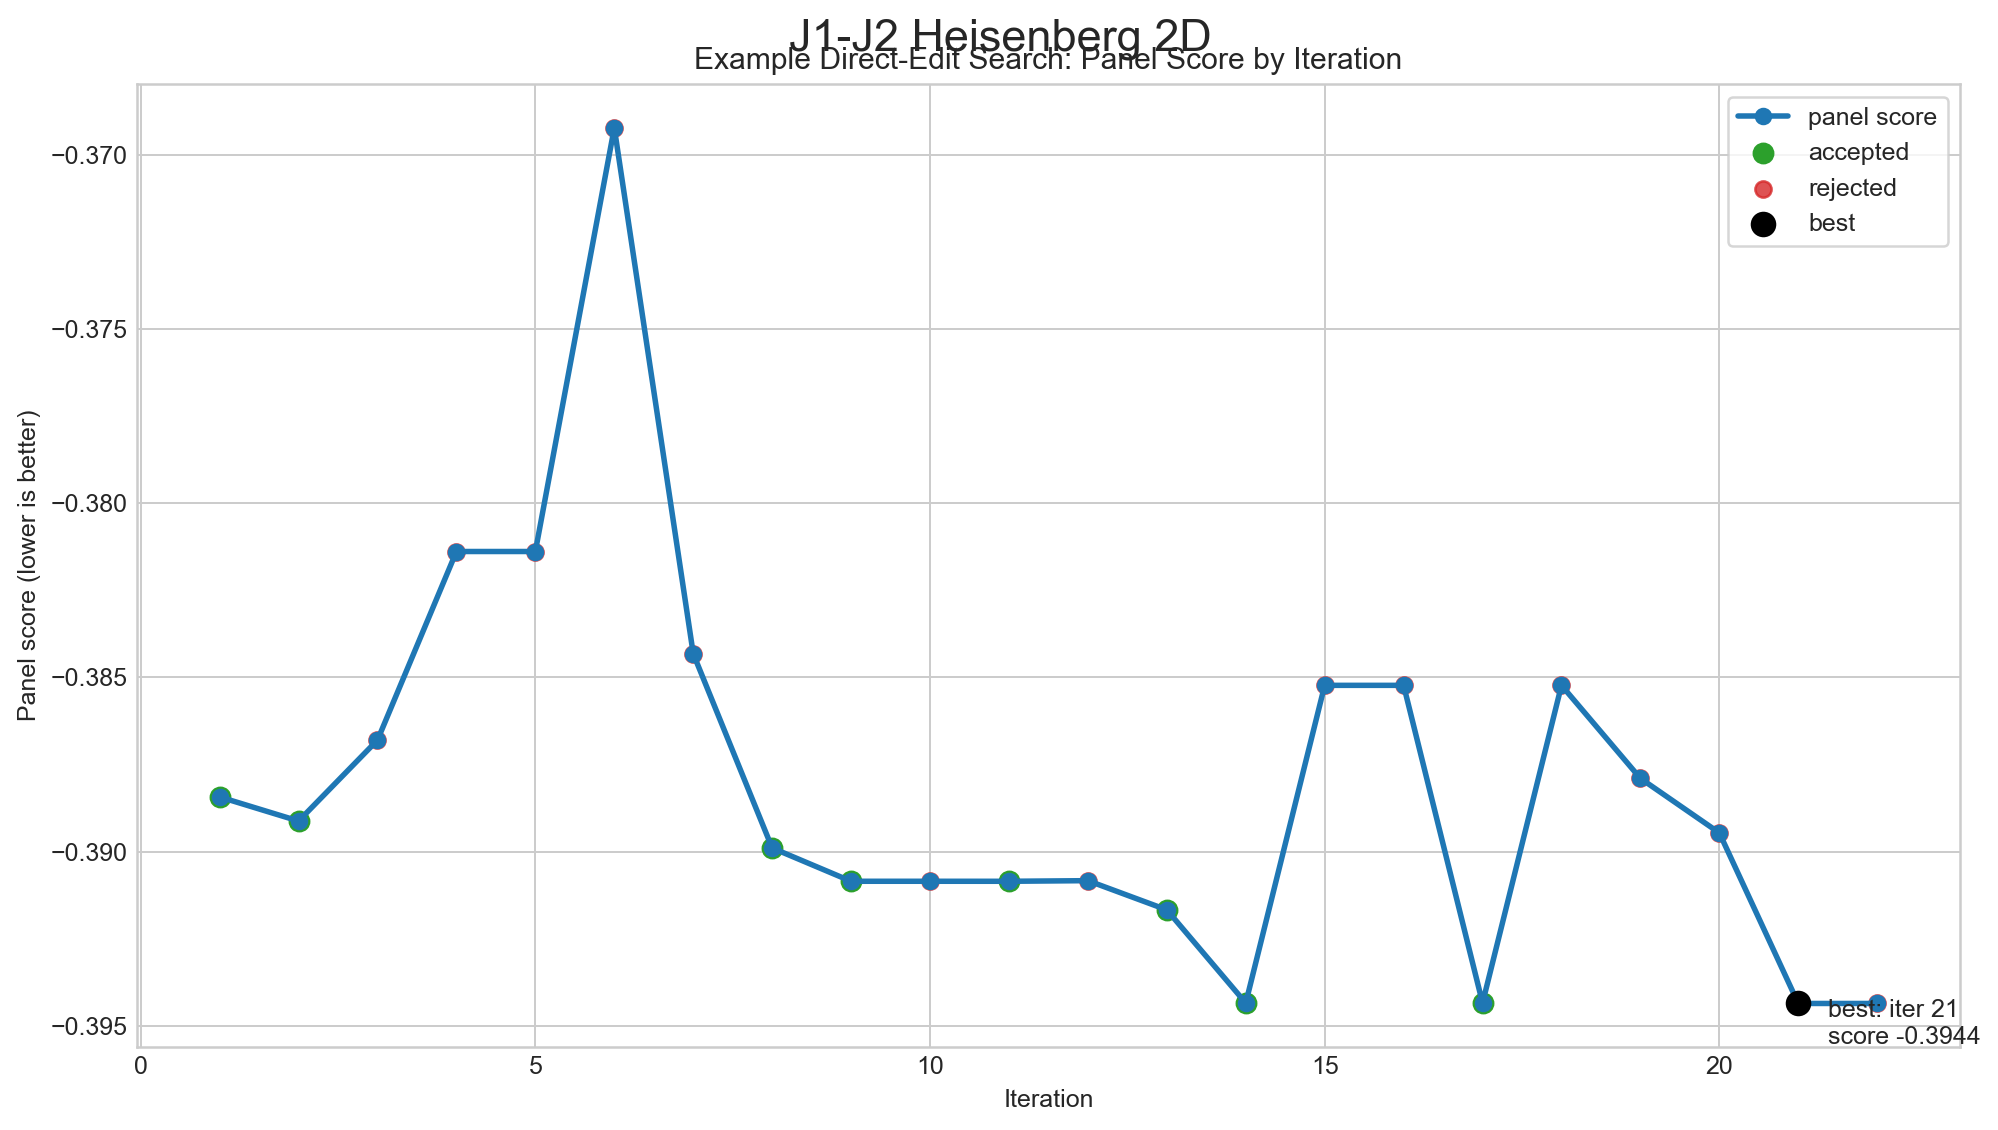
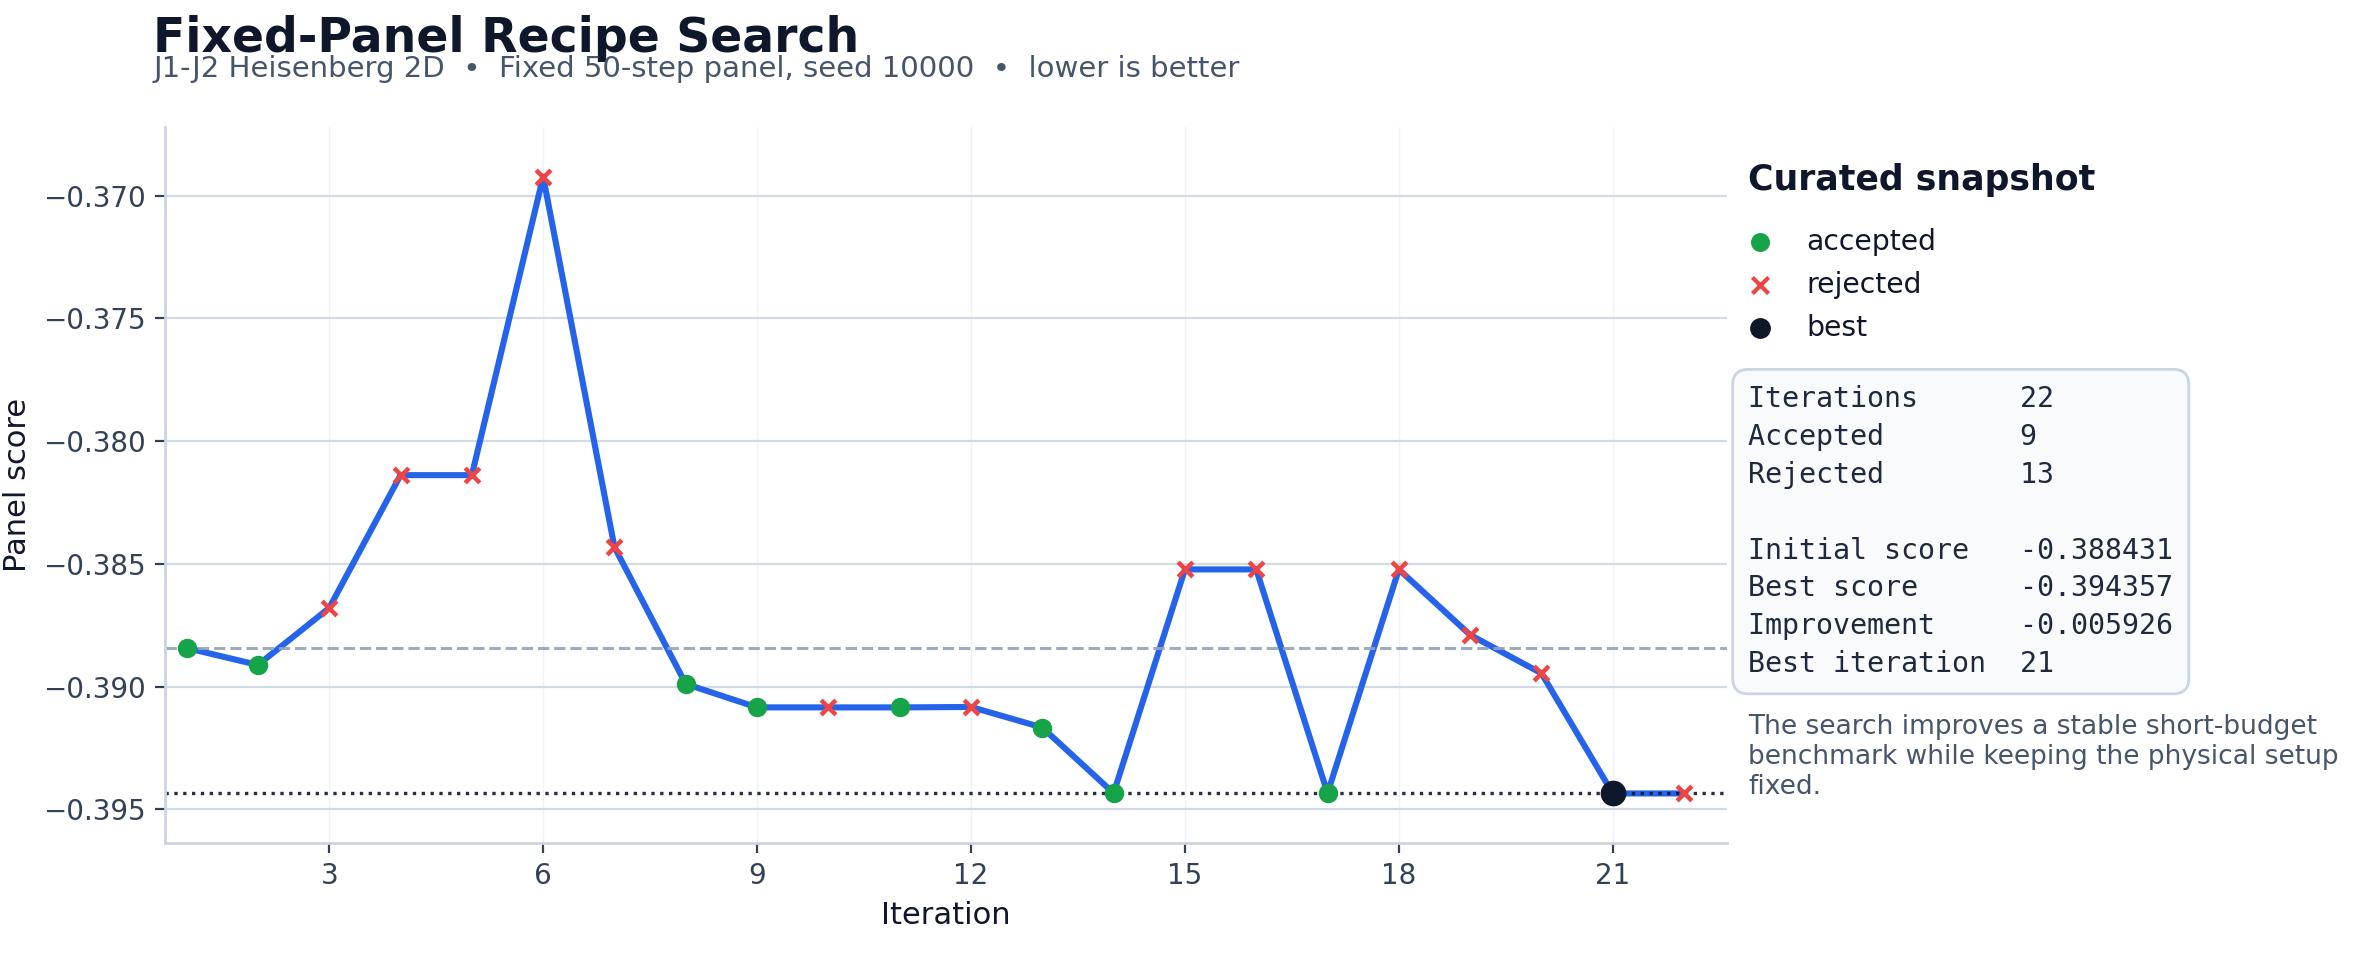
Polish public search figure and add generator

diff --git a/analysis/generate_public_figures.py b/analysis/generate_public_figures.py
@@ -1,0 +1,149 @@
+from __future__ import annotations
+
+import os
+import json
+import tempfile
+from pathlib import Path
+
+os.environ.setdefault(
+    "MPLCONFIGDIR",
+    str(Path(tempfile.gettempdir()) / "autoresearch_j1j2_mplconfig"),
+)
+
+import matplotlib.pyplot as plt
+from matplotlib.ticker import MaxNLocator
+
+ROOT = Path(__file__).resolve().parents[1]
+TRAJECTORY_PATH = ROOT / "analysis" / "public_recipe_search_trajectory.json"
+FIGURES_DIR = ROOT / "docs" / "figures"
+OUTPUT_PATH = FIGURES_DIR / "recipe_search_summary.png"
+
+
+def load_trajectory() -> dict:
+    return json.loads(TRAJECTORY_PATH.read_text())
+
+
+def fmt_score(value: float) -> str:
+    return f"{value:.6f}"
+
+
+def make_recipe_search_summary() -> Path:
+    payload = load_trajectory()
+    rows = payload["iterations"]
+    iterations = [int(row["iteration"]) for row in rows]
+    scores = [float(row["panel_score"]) for row in rows]
+    statuses = [str(row["status"]) for row in rows]
+
+    keep_x = [x for x, status in zip(iterations, statuses) if status == "keep"]
+    keep_y = [y for y, status in zip(scores, statuses) if status == "keep"]
+    discard_x = [x for x, status in zip(iterations, statuses) if status == "discard"]
+    discard_y = [y for y, status in zip(scores, statuses) if status == "discard"]
+
+    best_idx = min(range(len(scores)), key=scores.__getitem__)
+    best_iteration = iterations[best_idx]
+    best_score = scores[best_idx]
+    initial_score = scores[0]
+    improvement = best_score - initial_score
+
+    plt.rcParams.update(
+        {
+            "font.size": 10,
+            "axes.titlesize": 16,
+            "axes.labelsize": 11,
+            "axes.edgecolor": "#cbd5e1",
+            "axes.linewidth": 1.0,
+            "xtick.color": "#334155",
+            "ytick.color": "#334155",
+            "text.color": "#0f172a",
+            "axes.labelcolor": "#0f172a",
+            "font.family": "DejaVu Sans",
+        }
+    )
+
+    fig = plt.figure(figsize=(11.8, 4.9), dpi=200)
+    grid = fig.add_gridspec(1, 2, width_ratios=[4.2, 1.55])
+    ax = fig.add_subplot(grid[0, 0])
+    side = fig.add_subplot(grid[0, 1])
+    fig.subplots_adjust(left=0.07, right=0.985, bottom=0.14, top=0.87, wspace=0.02)
+
+    fig.suptitle("Fixed-Panel Recipe Search", x=0.065, y=0.985, ha="left", fontsize=17, fontweight="bold")
+    fig.text(
+        0.065,
+        0.93,
+        f"{payload['system_label']}  •  {payload['benchmark_label']}  •  lower is better",
+        ha="left",
+        va="center",
+        fontsize=10.5,
+        color="#475569",
+    )
+
+    ax.plot(iterations, scores, color="#2563eb", linewidth=2.2, zorder=2)
+    ax.scatter(keep_x, keep_y, color="#16a34a", s=36, zorder=4)
+    ax.scatter(discard_x, discard_y, color="#ef4444", s=28, marker="x", linewidths=1.6, zorder=4)
+    ax.scatter([best_iteration], [best_score], color="#0f172a", s=68, zorder=5)
+
+    ax.axhline(initial_score, color="#94a3b8", linestyle="--", linewidth=1.1, alpha=0.9)
+    ax.axhline(best_score, color="#0f172a", linestyle=":", linewidth=1.2, alpha=0.9)
+
+    ax.set_xlabel("Iteration")
+    ax.set_ylabel("Panel score")
+    ax.set_xlim(min(iterations) - 0.3, max(iterations) + 0.6)
+    pad = (max(scores) - min(scores)) * 0.08
+    ax.set_ylim(min(scores) - pad, max(scores) + pad)
+    ax.xaxis.set_major_locator(MaxNLocator(integer=True))
+    ax.grid(axis="y", color="#cbd5e1", linewidth=0.8, alpha=0.85)
+    ax.grid(axis="x", color="#e2e8f0", linewidth=0.5, alpha=0.55)
+    ax.spines["top"].set_visible(False)
+    ax.spines["right"].set_visible(False)
+
+    side.axis("off")
+    side.set_xlim(0, 1)
+    side.set_ylim(0, 1)
+    side.text(0.0, 0.95, "Curated snapshot", fontsize=12.5, fontweight="bold", va="top")
+    side.scatter([0.02], [0.84], s=34, color="#16a34a", transform=side.transAxes)
+    side.text(0.10, 0.84, "accepted", fontsize=10.2, va="center", transform=side.transAxes)
+    side.scatter([0.02], [0.78], s=34, color="#ef4444", marker="x", linewidths=1.5, transform=side.transAxes)
+    side.text(0.10, 0.78, "rejected", fontsize=10.2, va="center", transform=side.transAxes)
+    side.scatter([0.02], [0.72], s=42, color="#0f172a", transform=side.transAxes)
+    side.text(0.10, 0.72, "best", fontsize=10.2, va="center", transform=side.transAxes)
+    side.text(
+        0.0,
+        0.64,
+        "\n".join(
+            [
+                f"Iterations      {len(rows)}",
+                f"Accepted        {sum(1 for status in statuses if status == 'keep')}",
+                f"Rejected        {sum(1 for status in statuses if status == 'discard')}",
+                "",
+                f"Initial score   {fmt_score(initial_score)}",
+                f"Best score      {fmt_score(best_score)}",
+                f"Improvement     {fmt_score(improvement)}",
+                f"Best iteration  {best_iteration}",
+            ]
+        ),
+        family="DejaVu Sans Mono",
+        fontsize=10.2,
+        va="top",
+        color="#1e293b",
+        bbox={"boxstyle": "round,pad=0.55", "facecolor": "#f8fafc", "edgecolor": "#cbd5e1"},
+        linespacing=1.45,
+    )
+    side.text(
+        0.0,
+        0.18,
+        "The search improves a stable short-budget benchmark while keeping the physical setup fixed.",
+        fontsize=9.5,
+        color="#475569",
+        va="top",
+        wrap=True,
+    )
+
+    FIGURES_DIR.mkdir(parents=True, exist_ok=True)
+    fig.savefig(OUTPUT_PATH, facecolor="white")
+    plt.close(fig)
+    return OUTPUT_PATH
+
+
+if __name__ == "__main__":
+    path = make_recipe_search_summary()
+    print(path)

diff --git a/README.md b/README.md
@@ -142,7 +142,9 @@ In short:
   promising as an optimization recipe, but not yet clearly better as a final
   trained model across all anchor points.
 
-![Recipe-search summary](docs/figures/recipe_search_summary.png)
+<p align="center">
+  <img src="docs/figures/recipe_search_summary.png" alt="Recipe-search summary" width="980">
+</p>
 
 That distinction is important: the repository already demonstrates useful
 automated search behavior, but the current best short-budget recipe should still
